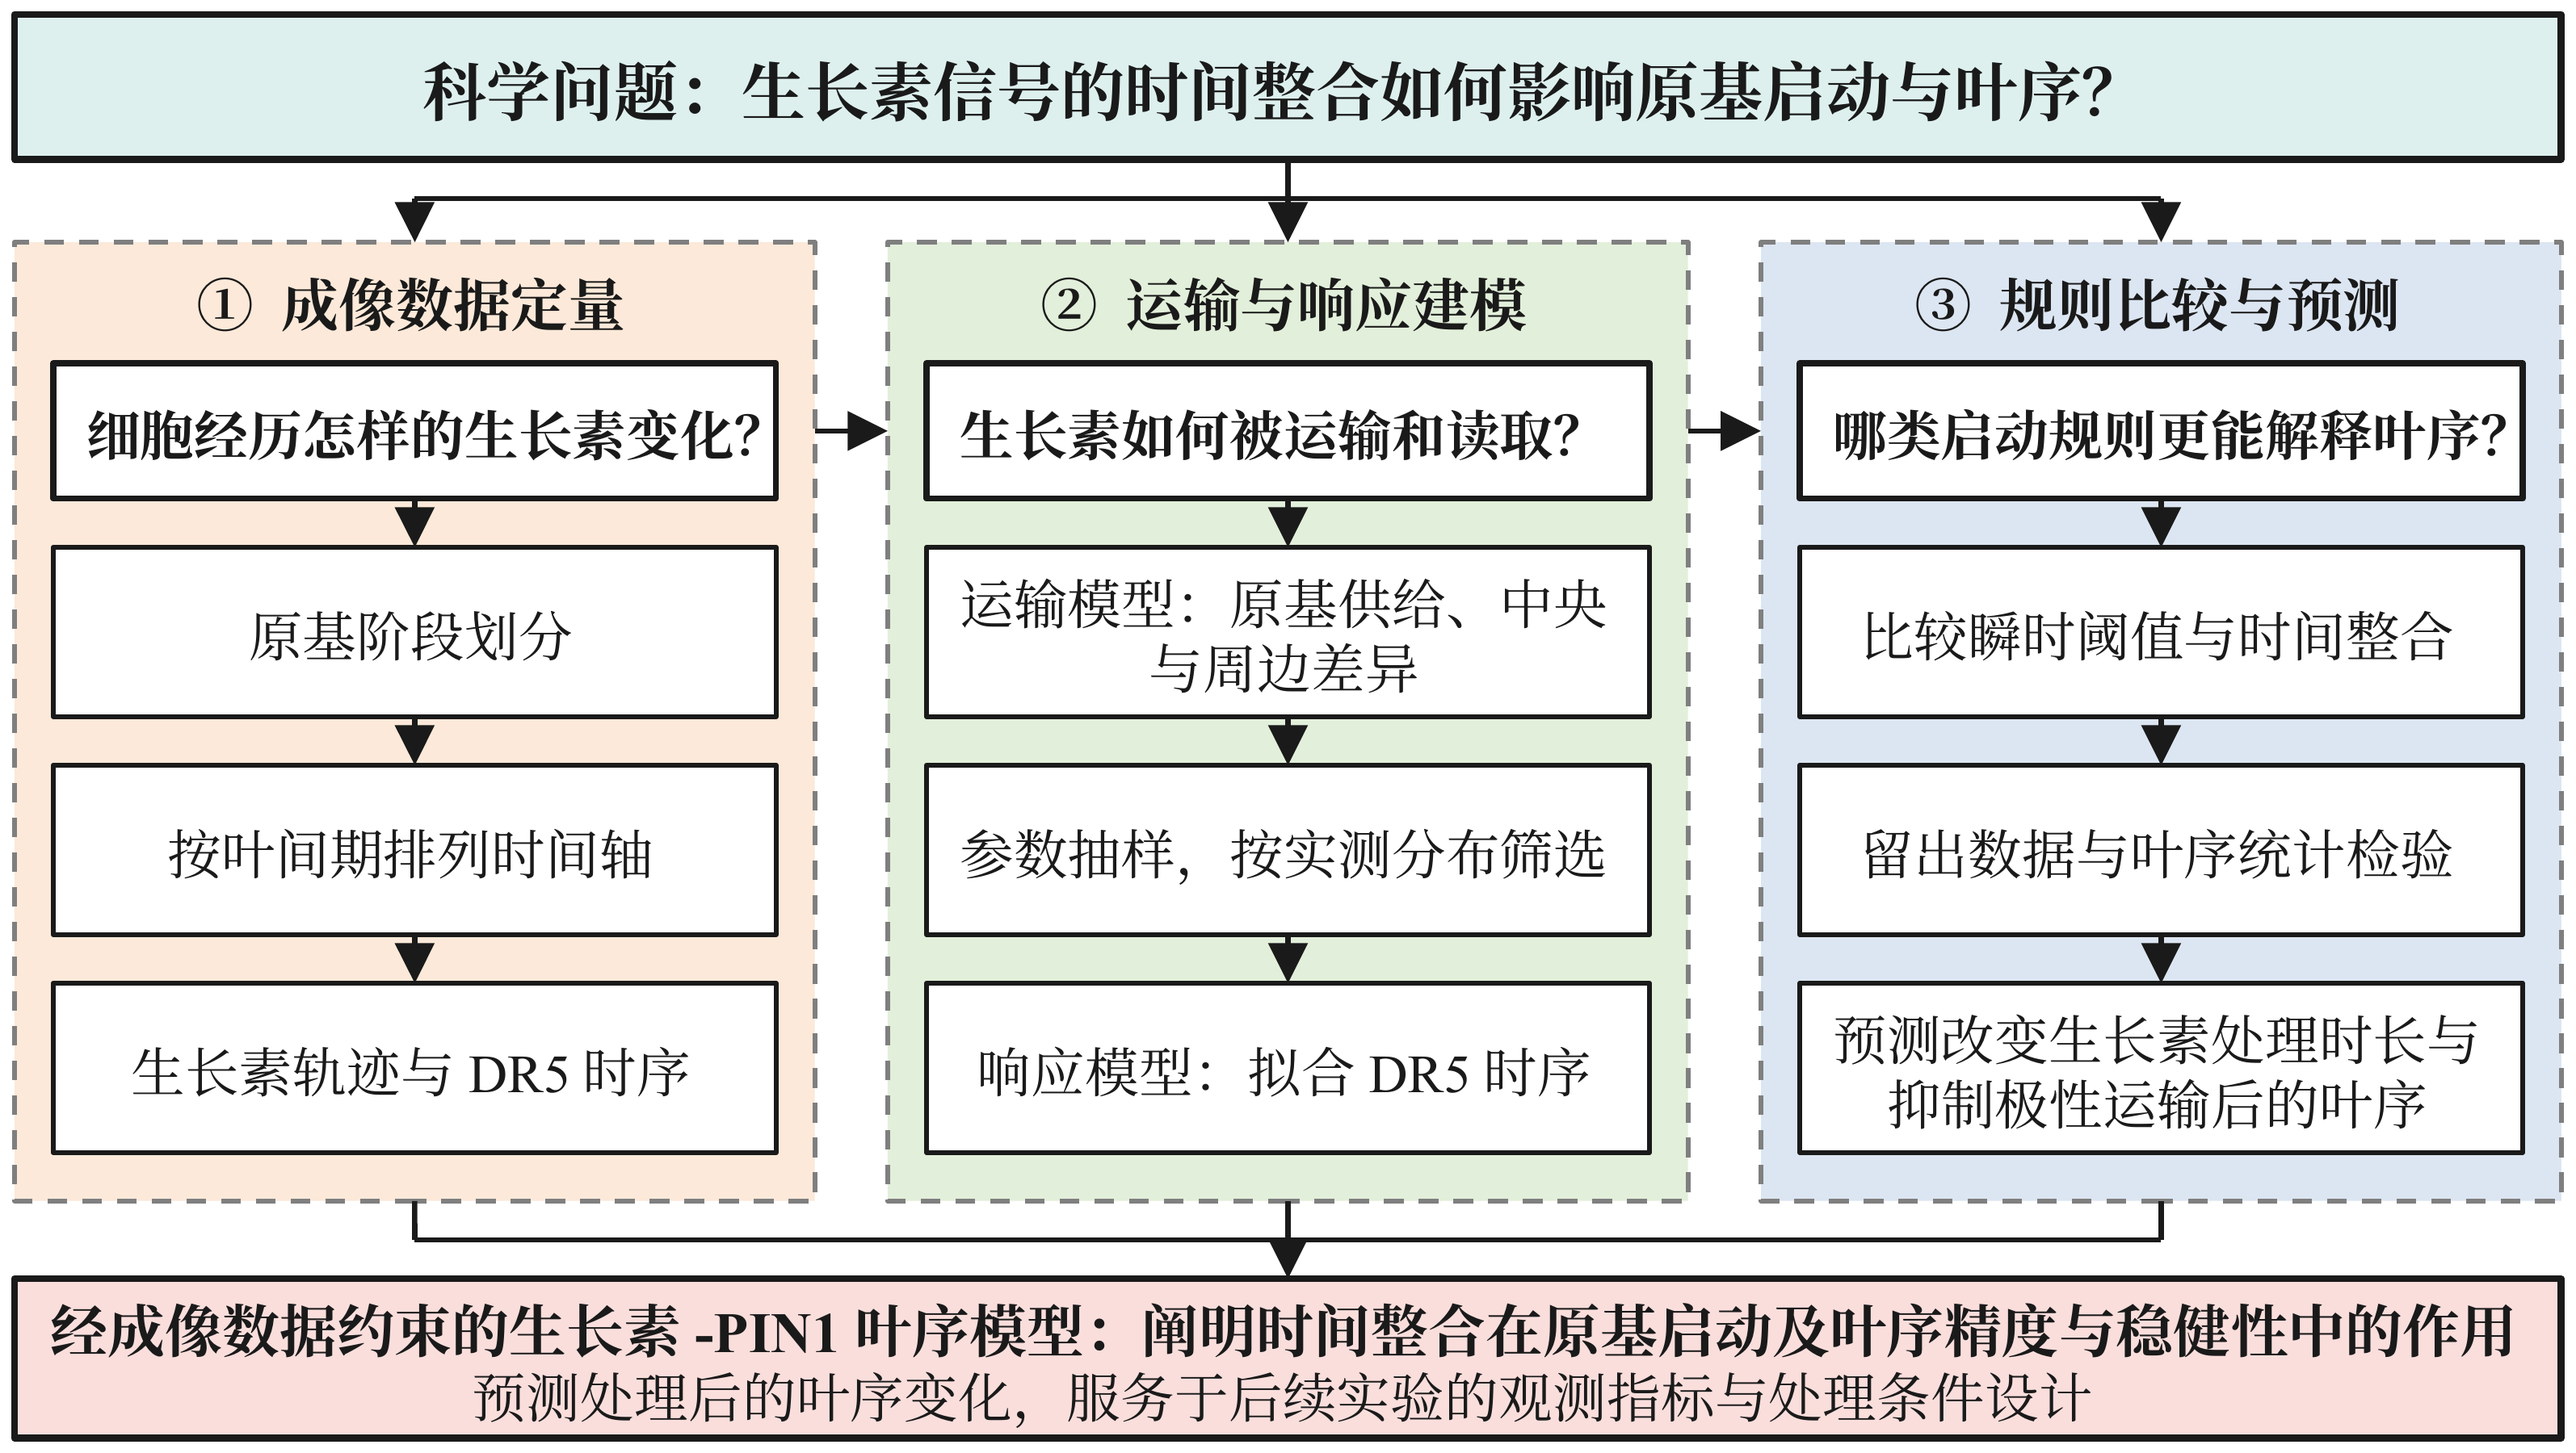
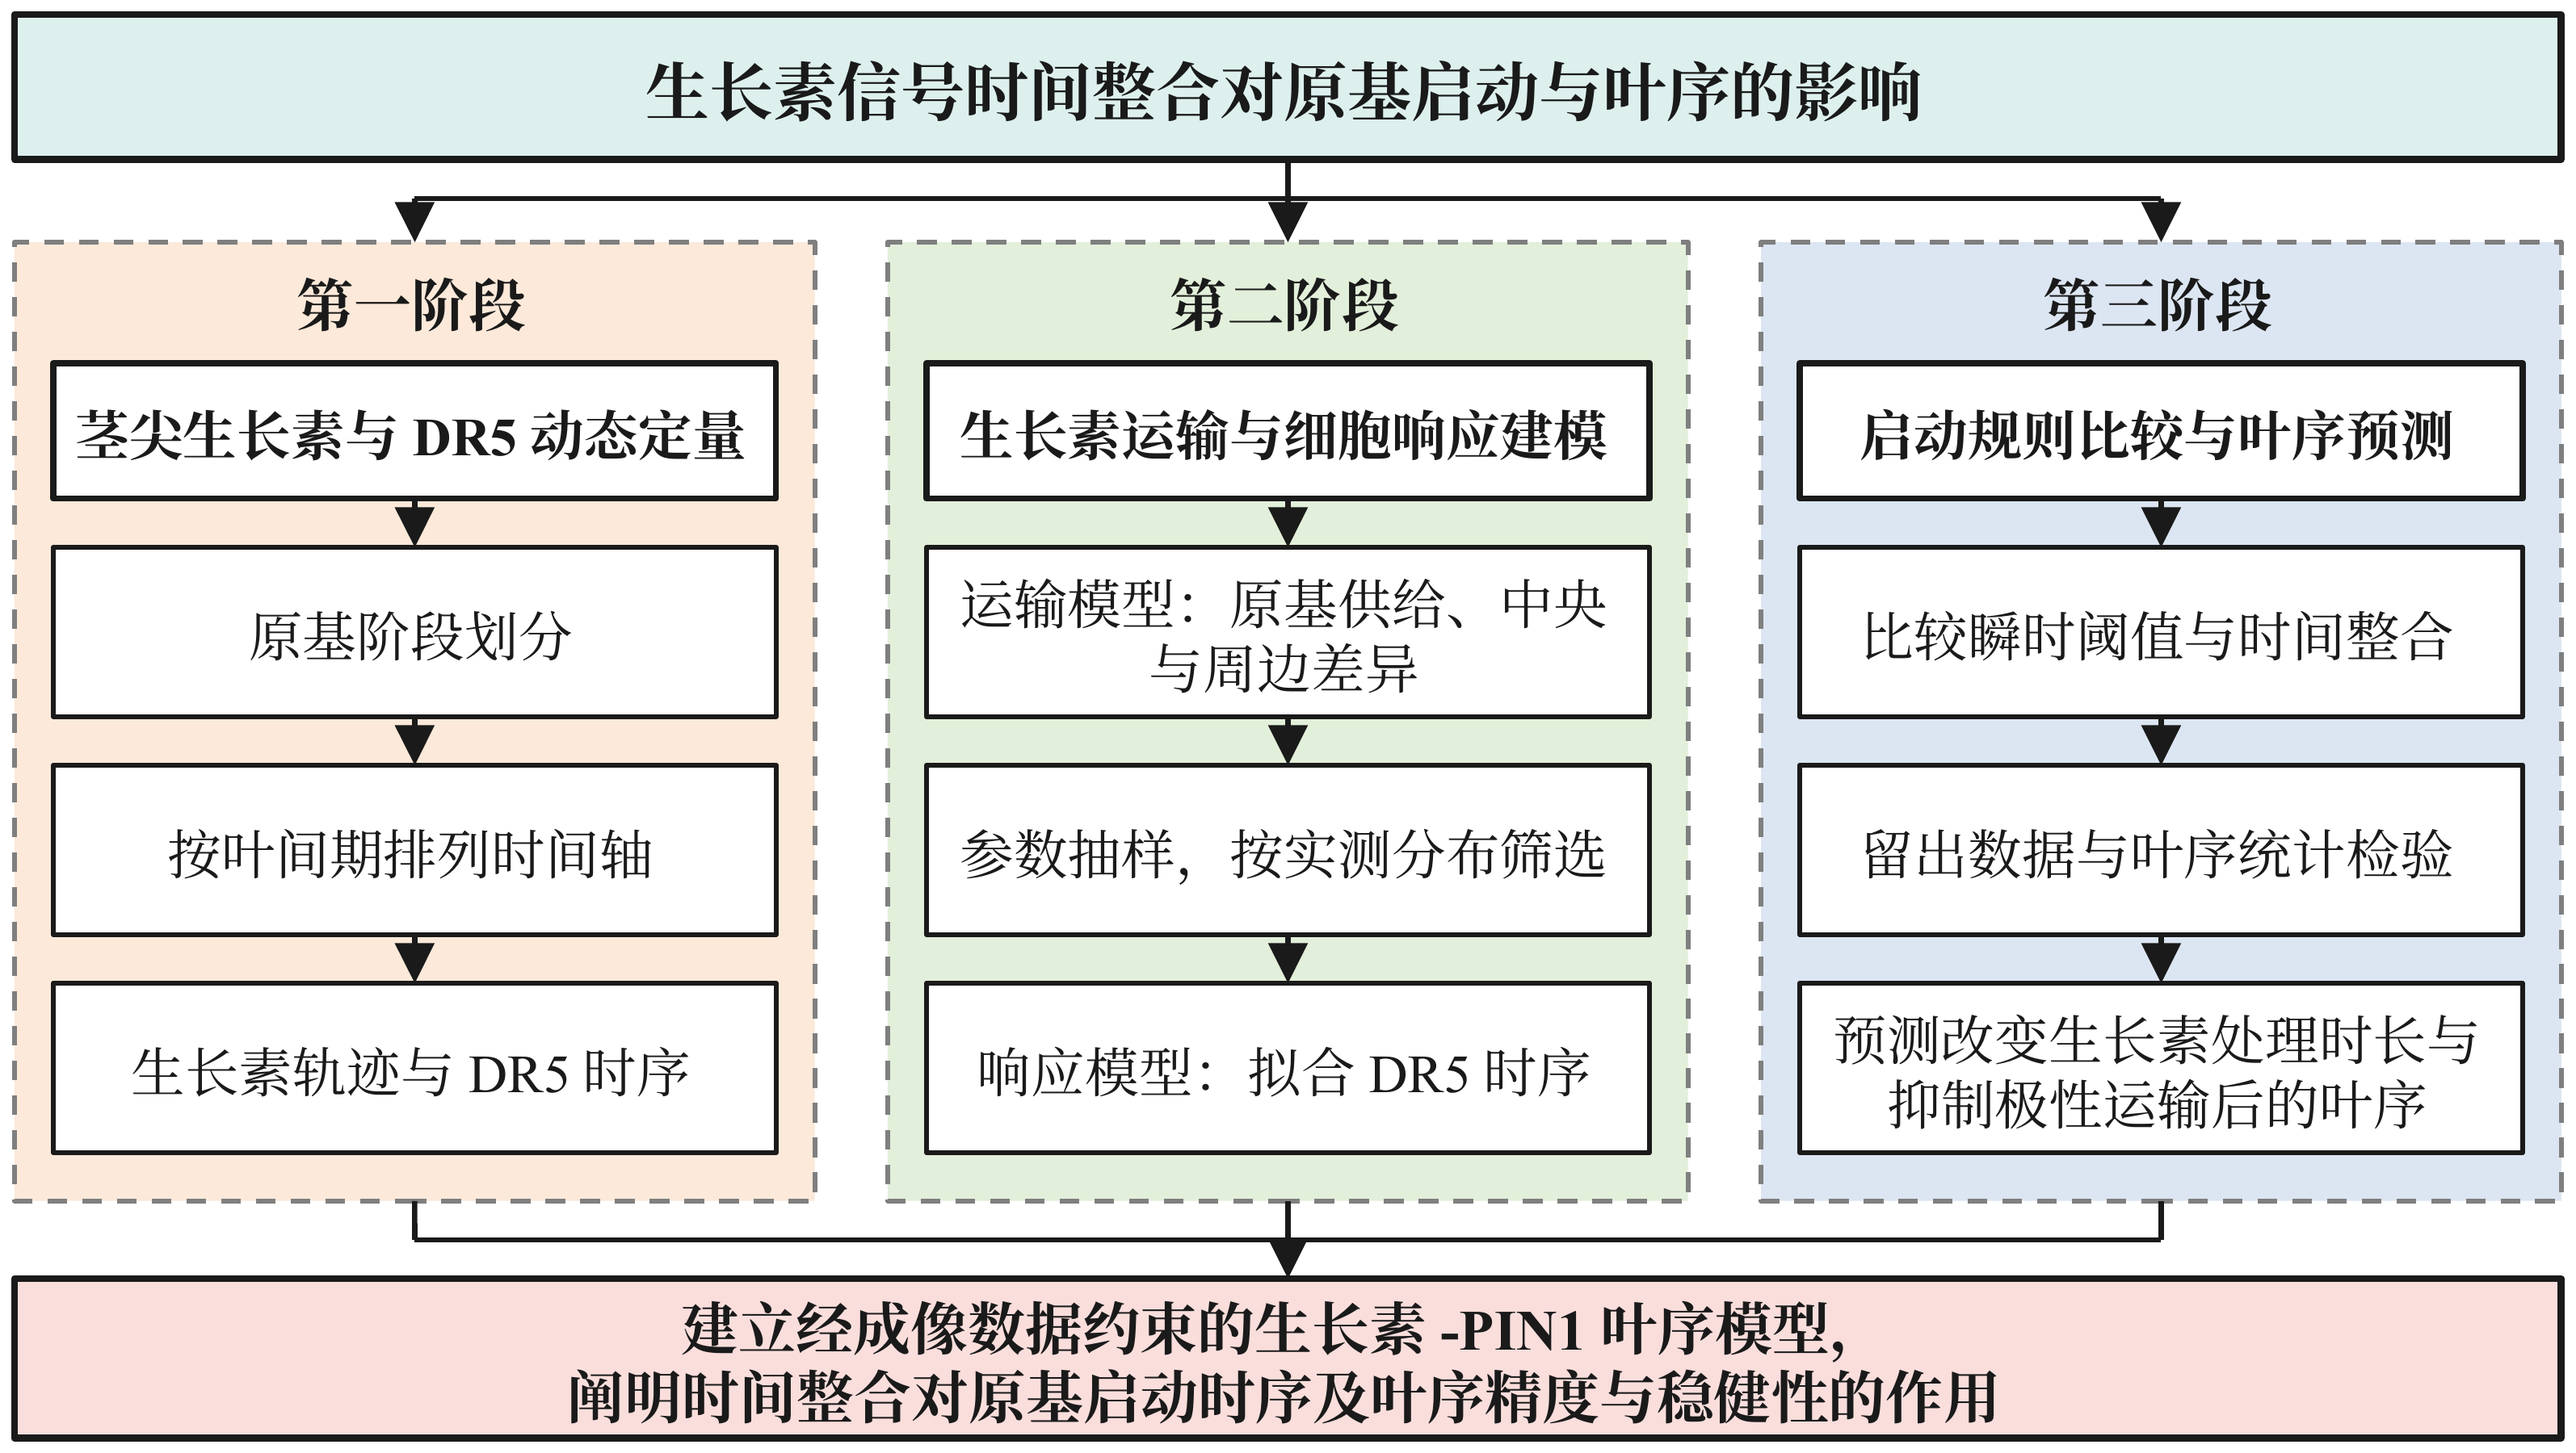
Fig. 2-1: labels as statements (topic, three stages, conclusion); order shown by stage names
Claude-Session: https://claude.ai/code/session_01BHCDdTyVHVBXyaT1pkArZu

diff --git a/figures/prior_work/ppt/roadmap.js b/figures/prior_work/ppt/roadmap.js
@@ -34,18 +34,18 @@ function seg(x1, y1, x2, y2, name, arrow) {
 
 // top: scientific question
 const M = 0.03;
-text(M, 0.03, W - 2 * M, 0.3, "科学问题：生长素信号的时间整合如何影响原基启动与叶序？",
+text(M, 0.03, W - 2 * M, 0.3, "生长素信号时间整合对原基启动与叶序的影响",
   { fs: FS_Q, bold: true, fill: TOP, lw: 1.0, name: "question" });
 
 // three module frames
 const GAP = 0.15, FW = (W - 2 * M - 2 * GAP) / 3, FY = 0.5, FH = 1.98;
 const fx = [M, M + FW + GAP, M + 2 * (FW + GAP)];
 const modules = [
-  { head: "① 成像数据定量", q: "细胞经历怎样的生长素变化？",
+  { head: "第一阶段", q: "茎尖生长素与DR5动态定量",
     steps: ["原基阶段划分", "按叶间期排列时间轴", "生长素轨迹与DR5时序"] },
-  { head: "② 运输与响应建模", q: "生长素如何被运输和读取？",
+  { head: "第二阶段", q: "生长素运输与细胞响应建模",
     steps: ["运输模型：原基供给、中央与周边差异", "参数抽样，按实测分布筛选", "响应模型：拟合DR5时序"] },
-  { head: "③ 规则比较与预测", q: "哪类启动规则更能解释叶序？",
+  { head: "第三阶段", q: "启动规则比较与叶序预测",
     steps: ["比较瞬时阈值与时间整合", "留出数据与叶序统计检验", "预测改变生长素处理时长与抑制极性运输后的叶序"] },
 ];
 // tree from the question to the three frames
@@ -68,10 +68,6 @@ modules.forEach((m, k) => {
     y += 0.35;
   });
 });
-// order between modules: 1 -> 2 -> 3
-const ay = FY + 0.25 + 0.14;
-seg(fx[0] + FW, ay, fx[1], ay, "m1_to_m2", true);
-seg(fx[1] + FW, ay, fx[2], ay, "m2_to_m3", true);
 
 // bottom: converge to the expected model and its use
 const by = FY + FH, bus2 = by + 0.08, BY = bus2 + 0.08;
@@ -79,8 +75,8 @@ modules.forEach((m, k) => seg(fx[k] + FW / 2, by, fx[k] + FW / 2, bus2, `down_${
 seg(fx[0] + FW / 2, bus2, fx[2] + FW / 2, bus2, "bottom_bus");
 seg(W / 2, bus2, W / 2, BY, "to_result", true);
 text(M, BY, W - 2 * M, H - BY - 0.03, [
-  { text: "经成像数据约束的生长素-PIN1叶序模型：阐明时间整合在原基启动及叶序精度与稳健性中的作用", options: { bold: true, fontSize: FS_H, breakLine: true } },
-  { text: "预测处理后的叶序变化，服务于后续实验的观测指标与处理条件设计", options: { fontSize: FS } },
-], { fill: BOTTOM, lw: 1.0, name: "result" });
+  { text: "建立经成像数据约束的生长素-PIN1叶序模型，", options: { breakLine: true } },
+  { text: "阐明时间整合对原基启动时序及叶序精度与稳健性的作用", options: {} },
+], { fs: FS_H, bold: true, fill: BOTTOM, lw: 1.0, name: "result" });
 
 pres.writeFile({ fileName: process.argv[2] || "roadmap.pptx" }).then((f) => console.log("wrote", f));
